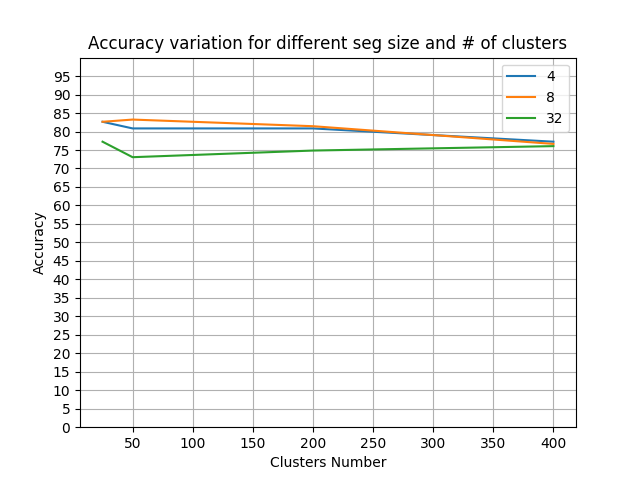
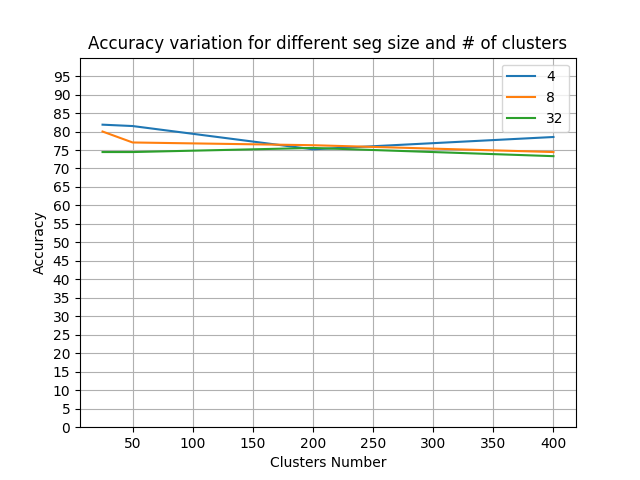
Use 3 fold cross validation

Changed region(s): [[0.1562, 0.2188, 0.875, 0.3438]]

diff --git a/homework5/clustering.py b/homework5/clustering.py
@@ -34,6 +34,7 @@ def segment_vectors(dir, file, seg_size):
 
 def train_test_split(dir, train_split_ratio):
     all_files_per_dir = os.listdir(dir)
+    np.random.shuffle(all_files_per_dir)
     train_count = int(train_split_ratio * len(all_files_per_dir))
     test_count = int((1 - train_split_ratio) * len(all_files_per_dir))
 
@@ -124,7 +125,7 @@ def construct_features(feature_vector, clusters_count, seg_size, train_split_rat
     print("Classifier features generated")
     return train_set, test_set
 
-def predict(clusters_count, seg_size, train_split_ratio = 0.8, has_plot_histograms = False):
+def predict(clusters_count, seg_size, train_split_ratio = 0.67, has_plot_histograms = False):
     print("Number Clusters= {} and segment length = {}".format(clusters_count, seg_size))
     feature_vector = segment_feature_data(seg_size, train_split_ratio)
     train_classifier, test_classifier = construct_features(feature_vector, clusters_count, seg_size
@@ -156,7 +157,7 @@ data_path = "HMP_Dataset/"
 n_centroids = 480
 segment_length = 32
 
-predict(n_centroids, segment_length, 0.8)
+predict(n_centroids, segment_length, 0.67)
 
 ####################################################################################################################
 # Best accuracy
@@ -165,7 +166,7 @@ predict(n_centroids, segment_length, 0.8)
 n_centroids = 25
 segment_length = 4
 
-predict(n_centroids, segment_length, 0.8, True)
+predict(n_centroids, segment_length, 0.67, True)
 
 ####################################################################################################################
 # Experiments for various segment length and number of clusters
@@ -178,7 +179,7 @@ result = []
 for seg_length in seg_lengths:
     interim = []
     for clusters in clusters_no:
-        acc = predict(clusters, seg_length, 0.8)
+        acc = predict(clusters, seg_length, 0.67)
         interim.append(acc*100)
     result.append(interim)
 
